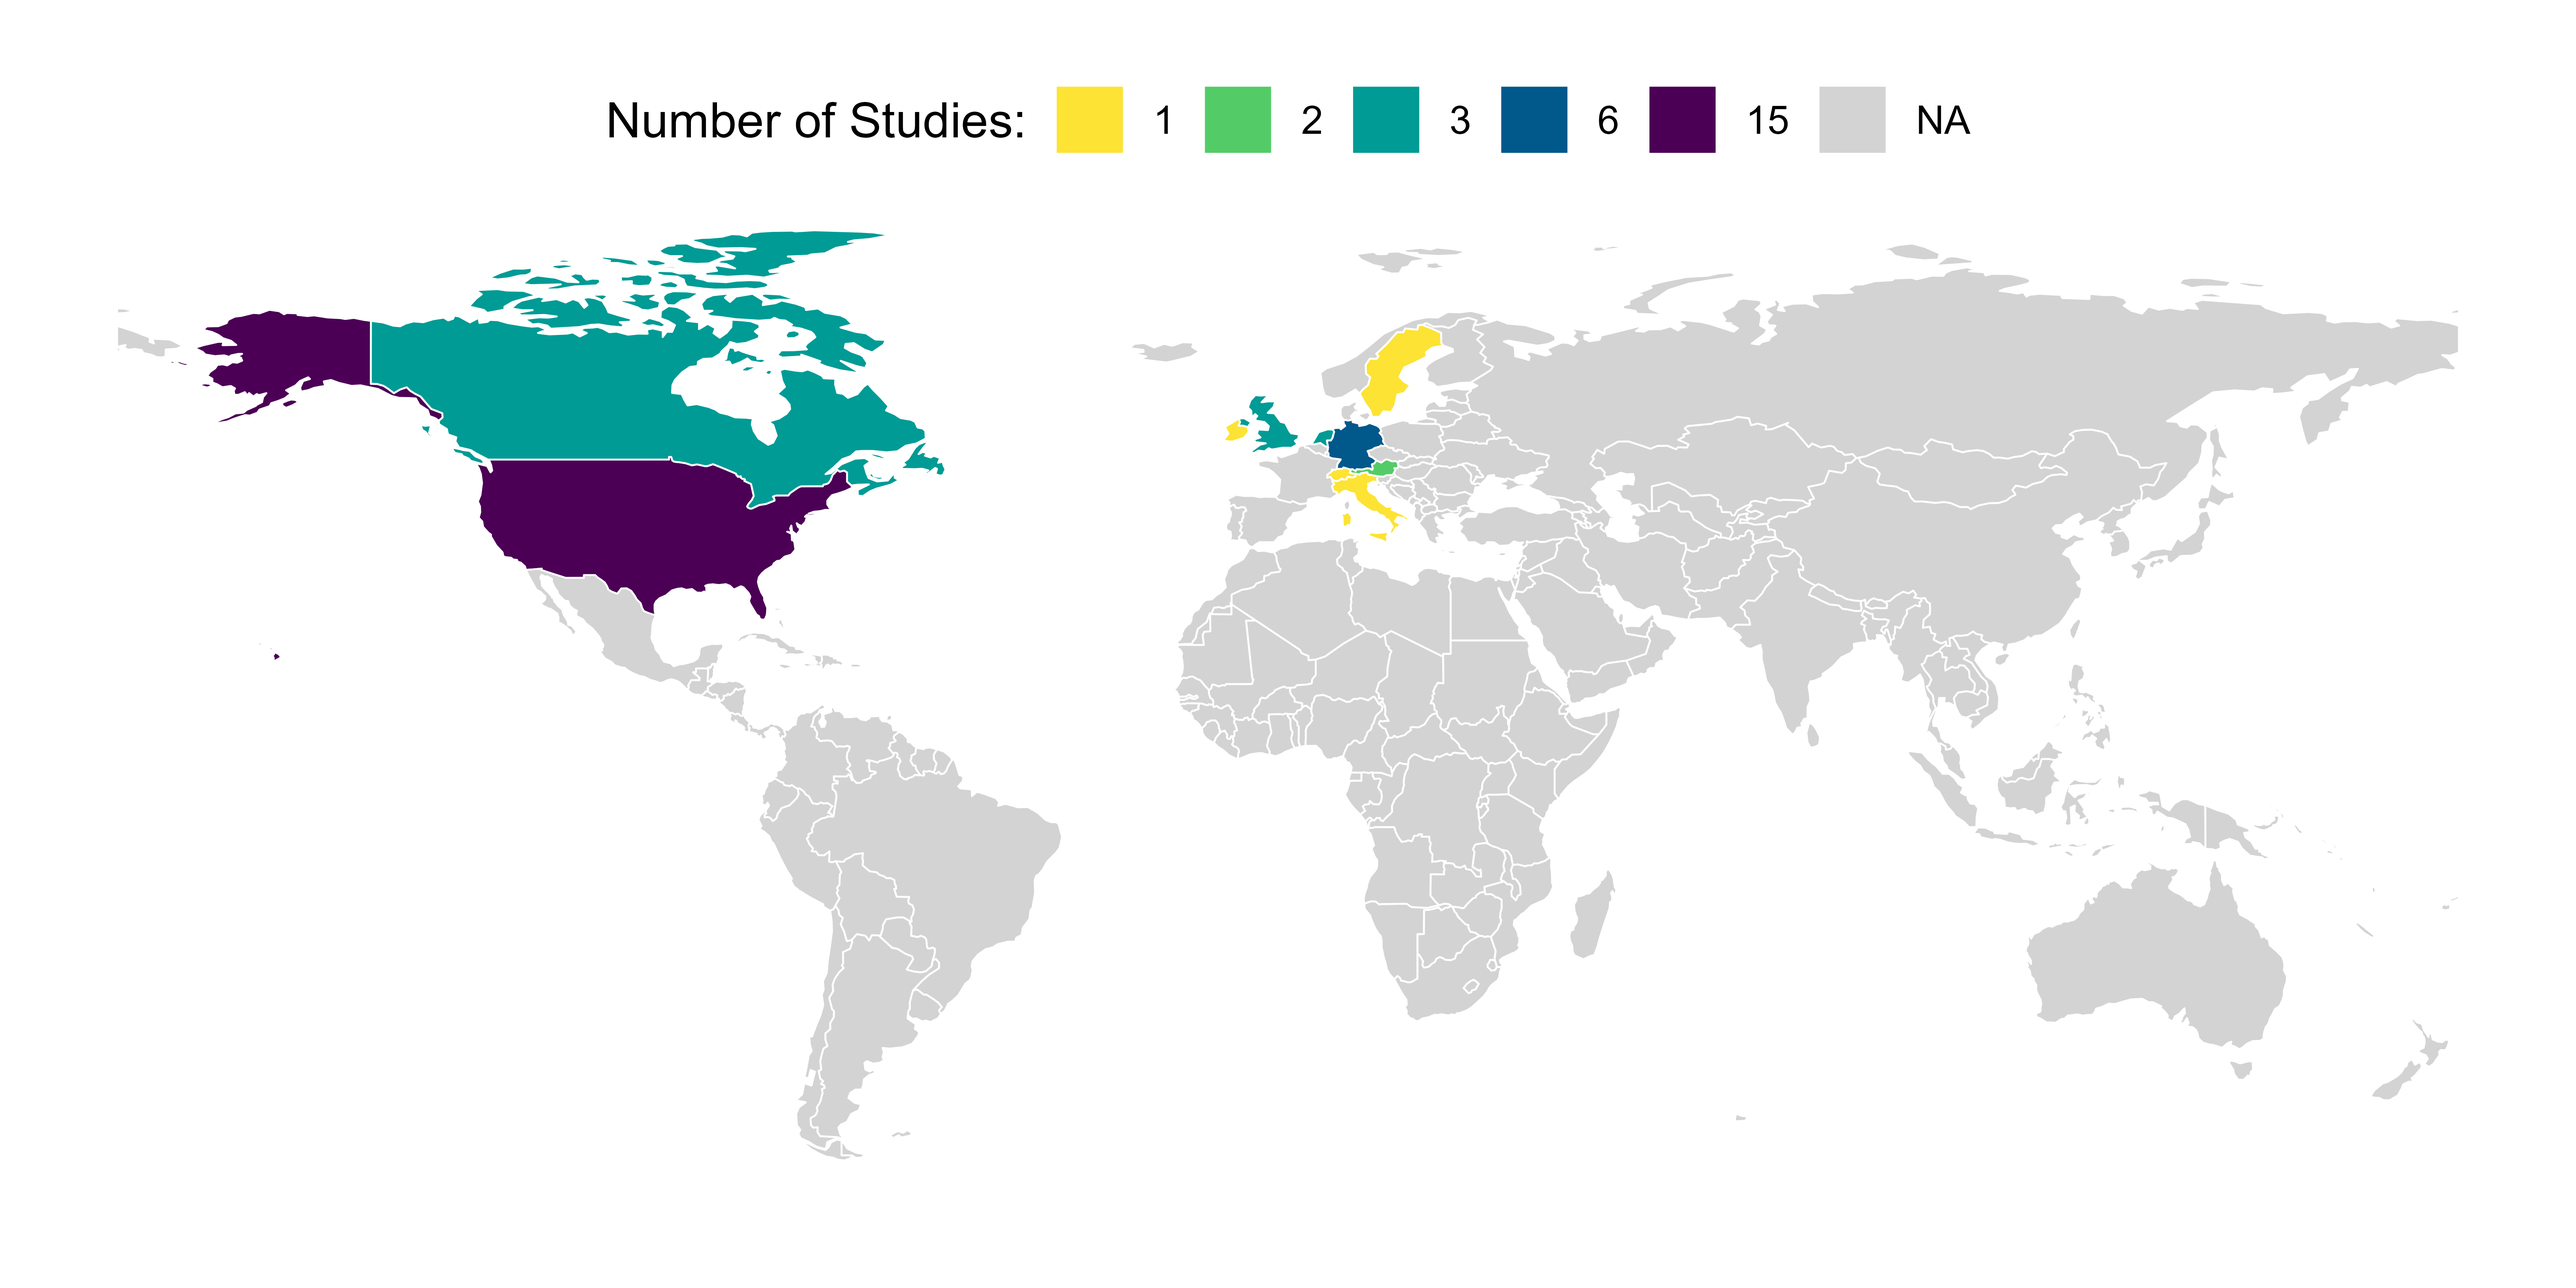
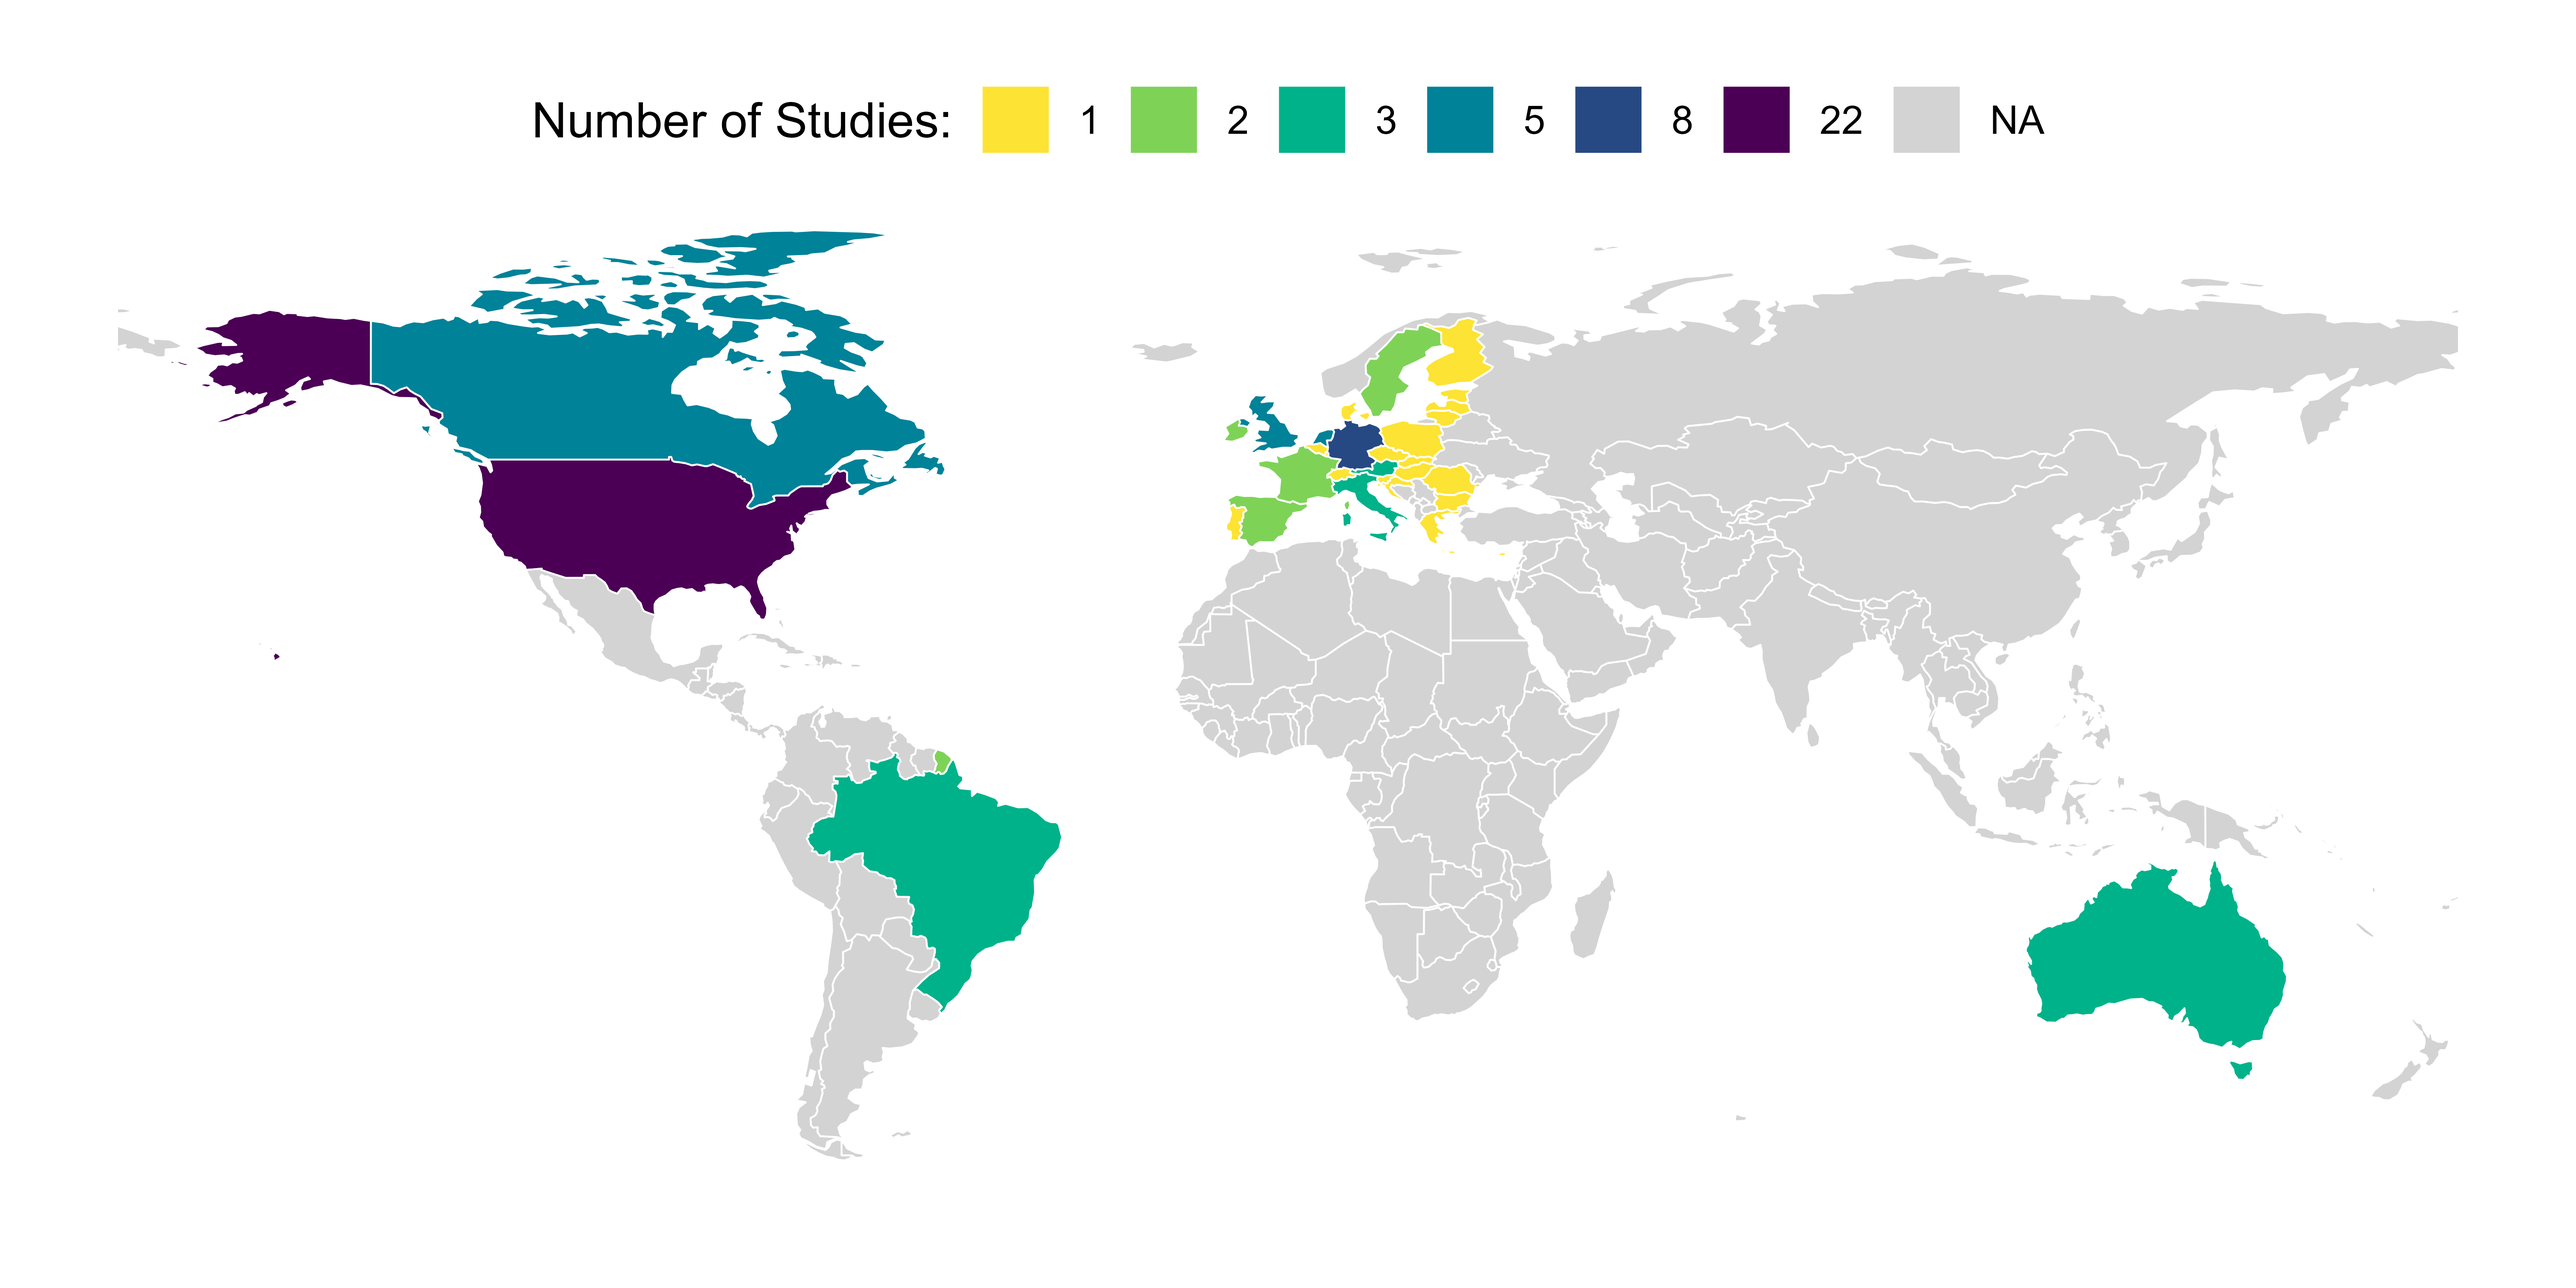
update

diff --git a/index.html b/index.html
@@ -57,9 +57,6 @@ class: white, middle, center
 ![](img/diss.png)
 
 
-
-
-
 ---
 
 
@@ -68,7 +65,7 @@ class: white, middle, center
 ## **Two** Gaps in the Literature
 
 
-#### 1. Inadequate or hard-to-access data (on actual targeting strategies)
+#### 1. Inadequate or no data (on actual targeting strategies)
 
 Where do we get the data from?
 
@@ -76,7 +73,7 @@ Where do we get the data from?
 
 #### 2. Focus on the Global North
 
-Which countries do we study? *Can* we study?
+Which countries do we study? 
 
 ---
 
@@ -165,6 +162,8 @@ class: white
 
 ---
 
+class: white
+
 
 ### Browser extensions
 
@@ -189,6 +188,8 @@ class: white
 
 
 ---
+
+class: white
 
 ### Browser extensions
 
@@ -284,7 +285,9 @@ class: white
 class: middle, center
 
 
-#### &amp;rarr; current data **I N A D E Q U A T E** for studying the phenomena (or hard to access)
+#### current data 
+#### **I N A D E Q U A T E** 
+#### for studying the phenomena (or hard to access)
 
 ---
 
@@ -292,13 +295,13 @@ class: middle, center
 
 ### 2. Focus on the Global North
 
-#### Which countries do we study? *Can* we study?
+#### Which countries do we study? 
 
 ---
 
 class: white
 
-### Research on political microtargeting - a WEIRD problem?
+### Political microtargeting - a WEIRD issue? .font50[(Aagaard &amp; Marthedal 2023 + own research)]
 
 
 ![](img/worldmapss.png)
@@ -312,23 +315,6 @@ class: white, middle, center
 ---
 
 ### Data on Ad Targeting
-
-
-+ September 2022: Meta adds "Audience" tab to public Meta Ad Library  
-
-    + Coverage: All countries in which political ads run
-    
-    + Targeting criteria: Age, Gender, Location, Language, "Interests" and "Behaviour", Custom and Lookalike Audiences 
-    
-    + Downside: only available for last 7, 30, and 90 days windows
-    
-    + No possibility to download data (however: I've written an R package `metargetr` to retrieve the data)
-        
-![](img/targeting2.png)
-
----
-
-### Studying **usage** of *online political microtargeting* 
 
 **Meta Ad Targeting Dataset**
 
@@ -358,7 +344,7 @@ class: white, middle, center
 
 class: middle, center
 
-### For the first time we can investigate the usage of online political microtargeting at scale and worldwide using a very comprehensive (but probably not 100% complete) data source
+### For the first time we can investigate the usage of online political microtargeting at scale and worldwide
 
 ---
 
@@ -368,6 +354,7 @@ class: middle, center
 ## Aims of this Research
 
 **Descriptive analysis of political microtargeting**
+
 
 **Laying the foundation for future microtargeting research**
 
@@ -416,6 +403,10 @@ class: white
 + We identified: 
   + *132 countries* 
   + *156 elections*
+  
+
++ Only focus on **political parties and candidates**
+
 ]
 
 &lt;!-- **122 *national* elections** in **101 countries** between --&gt;
@@ -429,15 +420,17 @@ class: white
 
 class: white
 
-## Method
+## Methods
 
 .leftcol[
 
-+ data annotated &amp; enhanced using the *Party Facts database* (Döring &amp; Regel 2019)
++ data annotated &amp; enhanced using the *Party Facts database* *(Döring &amp; Regel 2019)*
 
   + mainly based on Wikipedia
   
-  + we hand-coded over 9k advertisers and 900 parties (100 top advertisers + 50 random sample)
+  + we hand-coded over 9k advertisers and 900+ parties
+  
+  + 100 top advertisers + 50 random sample per election
   
 + Multi-source matching 
 
@@ -477,7 +470,6 @@ class: white
   + 10 countries had no data (e.g. Russia, Iran)
   + 27 countries no political advertisers (e.g. Venezuela, Niger)
 
-+ Only focus on **political parties and candidates**
 ]
 
 &lt;!-- **122 *national* elections** in **101 countries** between --&gt;
@@ -513,6 +505,38 @@ class: white
 &lt;img src="img/fourcats.png" width="85%"&gt;
 
 &lt;/center&gt;
+
+
+---
+
+
+
+
+class: white
+
+## Targeting and Exclusion Combinations
+
+
+.leftcol[
+
+We count targeting and exclusion combinations each time an additional criterion **reduces the audience size**
+
+0 criterias = all ages, all genders, entire country
+
+1 criterion = one interest audience
+
+2 criterias = one interest audiences in specific cities
+
+3 or more = 18-25 year olds, one interested audience in specific cities
+
+]
+
+.rightcol[
+
+&lt;img src="img/fourcats.png" width="100%"&gt;
+
+]
+
 
 
 ---
@@ -555,6 +579,20 @@ class: white
 
 ---
 
+class: white
+
+#### RQ1: Global Prevalence and Usage
+
+&gt; *Targeting common across geographical regions*
+
+&lt;center&gt;
+
+&lt;img src="img/regionpay.png" width="80%"&gt;
+
+&lt;/center&gt;
+
+---
+
 
 class: white
 
@@ -588,21 +626,6 @@ class: white
 
 
 ---
-
-class: white
-
-#### RQ1: Global Prevalence and Usage
-
-&gt; *Targeting common across geographical regions*
-
-&lt;center&gt;
-
-&lt;img src="img/regionpay.png" width="80%"&gt;
-
-&lt;/center&gt;
-
----
-
 
 class: white
 
@@ -665,7 +688,7 @@ class: white
 
 #### Political factors
   
-  &gt; Targeting strategies are common regardless of level of democracy
+&gt; Targeting strategies are common regardless of level of democracy
 
 
 ![](img/democ1.png)
@@ -712,7 +735,7 @@ class: white
 
 &gt; Countries with stricter data protection laws exhibit more spending on microtargeting
   
-![](img/limits.png)
+![](img/protecc.png)
 
 ---
 
@@ -926,24 +949,23 @@ class: white
     
   + Most commonly using location and socio-demographics (e.g. age)
 
++ political microtargeting is used **by both left and right**
+
 --
 
 **So is political microtargeting overhyped?**
 
 --
 
-+ Its usage in less-democratic countries or less stable societies should make us pause 
++ Its usage in less-democratic countries should make us pause 
 
++ they **target** their respective **core audiences**
 
-+ political microtargeting is used **by both left and right**
-
-  + they **target** their respective **core audiences**
-  
-      + i.e. concerns about a **defragmented public sphere*** not unfounded
+  + i.e. concerns about a **defragmented public sphere*** not unfounded
       
-  + they often target people already **interested in politics**
-  
-      + i.e. concerns about **"political redlining"**    not unfounded
++ they often target people already **interested in politics**
+
+  + i.e. concerns about **"political redlining"** not unfounded
       
 ---
 
@@ -951,10 +973,14 @@ class: white
 
 + The **Ad Targeting Dataset** released by Meta is a **step in the right direction** for ad transparency
 
-  + **however**, increases **dependency on Meta, should be seen critical**, especially given  announcement of recent Twitter API changes
+  + **however**, increases **dependency on Meta, should be seen critical**
 
   + dataset is **not easily accessible** for researchers, and not at all by civil society
   
+
++ Stepping stone for **future research**
+  
+  + Content!
 
 ---
 
@@ -967,7 +993,7 @@ class: middle, center
 
 &lt;div style="text-align: center;"&gt;
     &lt;div style="display: inline-block; text-align: left;"&gt;
-&lt;p align="left"&gt;&lt;svg viewBox="0 0 512 512" style="height:1em;position:relative;display:inline-block;top:.1em;fill:lightgrey;" xmlns="http://www.w3.org/2000/svg"&gt;  &lt;path d="M326.612 185.391c59.747 59.809 58.927 155.698.36 214.59-.11.12-.24.25-.36.37l-67.2 67.2c-59.27 59.27-155.699 59.262-214.96 0-59.27-59.26-59.27-155.7 0-214.96l37.106-37.106c9.84-9.84 26.786-3.3 27.294 10.606.648 17.722 3.826 35.527 9.69 52.721 1.986 5.822.567 12.262-3.783 16.612l-13.087 13.087c-28.026 28.026-28.905 73.66-1.155 101.96 28.024 28.579 74.086 28.749 102.325.51l67.2-67.19c28.191-28.191 28.073-73.757 0-101.83-3.701-3.694-7.429-6.564-10.341-8.569a16.037 16.037 0 0 1-6.947-12.606c-.396-10.567 3.348-21.456 11.698-29.806l21.054-21.055c5.521-5.521 14.182-6.199 20.584-1.731a152.482 152.482 0 0 1 20.522 17.197zM467.547 44.449c-59.261-59.262-155.69-59.27-214.96 0l-67.2 67.2c-.12.12-.25.25-.36.37-58.566 58.892-59.387 154.781.36 214.59a152.454 152.454 0 0 0 20.521 17.196c6.402 4.468 15.064 3.789 20.584-1.731l21.054-21.055c8.35-8.35 12.094-19.239 11.698-29.806a16.037 16.037 0 0 0-6.947-12.606c-2.912-2.005-6.64-4.875-10.341-8.569-28.073-28.073-28.191-73.639 0-101.83l67.2-67.19c28.239-28.239 74.3-28.069 102.325.51 27.75 28.3 26.872 73.934-1.155 101.96l-13.087 13.087c-4.35 4.35-5.769 10.79-3.783 16.612 5.864 17.194 9.042 34.999 9.69 52.721.509 13.906 17.454 20.446 27.294 10.606l37.106-37.106c59.271-59.259 59.271-155.699.001-214.959z"&gt;&lt;/path&gt;&lt;/svg&gt;&amp;nbsp;favstats.github.io/targex (Slides) &lt;br&gt; &lt;svg viewBox="0 0 512 512" style="height:1em;position:relative;display:inline-block;top:.1em;fill:blue;" xmlns="http://www.w3.org/2000/svg"&gt;  &lt;path d="M459.37 151.716c.325 4.548.325 9.097.325 13.645 0 138.72-105.583 298.558-298.558 298.558-59.452 0-114.68-17.219-161.137-47.106 8.447.974 16.568 1.299 25.34 1.299 49.055 0 94.213-16.568 130.274-44.832-46.132-.975-84.792-31.188-98.112-72.772 6.498.974 12.995 1.624 19.818 1.624 9.421 0 18.843-1.3 27.614-3.573-48.081-9.747-84.143-51.98-84.143-102.985v-1.299c13.969 7.797 30.214 12.67 47.431 13.319-28.264-18.843-46.781-51.005-46.781-87.391 0-19.492 5.197-37.36 14.294-52.954 51.655 63.675 129.3 105.258 216.365 109.807-1.624-7.797-2.599-15.918-2.599-24.04 0-57.828 46.782-104.934 104.934-104.934 30.213 0 57.502 12.67 76.67 33.137 23.715-4.548 46.456-13.32 66.599-25.34-7.798 24.366-24.366 44.833-46.132 57.827 21.117-2.273 41.584-8.122 60.426-16.243-14.292 20.791-32.161 39.308-52.628 54.253z"&gt;&lt;/path&gt;&lt;/svg&gt;&amp;nbsp;@favstats &lt;br&gt; &lt;svg viewBox="0 0 448 512" style="height:1em;position:relative;display:inline-block;top:.1em;fill:#615ff7;" xmlns="http://www.w3.org/2000/svg"&gt;  &lt;path d="M433 179.11c0-97.2-63.71-125.7-63.71-125.7-62.52-28.7-228.56-28.4-290.48 0 0 0-63.72 28.5-63.72 125.7 0 115.7-6.6 259.4 105.63 289.1 40.51 10.7 75.32 13 103.33 11.4 50.81-2.8 79.32-18.1 79.32-18.1l-1.7-36.9s-36.31 11.4-77.12 10.1c-40.41-1.4-83-4.4-89.63-54a102.54 102.54 0 0 1-.9-13.9c85.63 20.9 158.65 9.1 178.75 6.7 56.12-6.7 105-41.3 111.23-72.9 9.8-49.8 9-121.5 9-121.5zm-75.12 125.2h-46.63v-114.2c0-49.7-64-51.6-64 6.9v62.5h-46.33V197c0-58.5-64-56.6-64-6.9v114.2H90.19c0-122.1-5.2-147.9 18.41-175 25.9-28.9 79.82-30.8 103.83 6.1l11.6 19.5 11.6-19.5c24.11-37.1 78.12-34.8 103.83-6.1 23.71 27.3 18.4 53 18.4 175z"&gt;&lt;/path&gt;&lt;/svg&gt;&amp;nbsp;@favstats@fosstodon.org&lt;/p&gt;
+&lt;p align="left"&gt;&lt;svg viewBox="0 0 512 512" style="height:1em;position:relative;display:inline-block;top:.1em;fill:lightgrey;" xmlns="http://www.w3.org/2000/svg"&gt;  &lt;path d="M326.612 185.391c59.747 59.809 58.927 155.698.36 214.59-.11.12-.24.25-.36.37l-67.2 67.2c-59.27 59.27-155.699 59.262-214.96 0-59.27-59.26-59.27-155.7 0-214.96l37.106-37.106c9.84-9.84 26.786-3.3 27.294 10.606.648 17.722 3.826 35.527 9.69 52.721 1.986 5.822.567 12.262-3.783 16.612l-13.087 13.087c-28.026 28.026-28.905 73.66-1.155 101.96 28.024 28.579 74.086 28.749 102.325.51l67.2-67.19c28.191-28.191 28.073-73.757 0-101.83-3.701-3.694-7.429-6.564-10.341-8.569a16.037 16.037 0 0 1-6.947-12.606c-.396-10.567 3.348-21.456 11.698-29.806l21.054-21.055c5.521-5.521 14.182-6.199 20.584-1.731a152.482 152.482 0 0 1 20.522 17.197zM467.547 44.449c-59.261-59.262-155.69-59.27-214.96 0l-67.2 67.2c-.12.12-.25.25-.36.37-58.566 58.892-59.387 154.781.36 214.59a152.454 152.454 0 0 0 20.521 17.196c6.402 4.468 15.064 3.789 20.584-1.731l21.054-21.055c8.35-8.35 12.094-19.239 11.698-29.806a16.037 16.037 0 0 0-6.947-12.606c-2.912-2.005-6.64-4.875-10.341-8.569-28.073-28.073-28.191-73.639 0-101.83l67.2-67.19c28.239-28.239 74.3-28.069 102.325.51 27.75 28.3 26.872 73.934-1.155 101.96l-13.087 13.087c-4.35 4.35-5.769 10.79-3.783 16.612 5.864 17.194 9.042 34.999 9.69 52.721.509 13.906 17.454 20.446 27.294 10.606l37.106-37.106c59.271-59.259 59.271-155.699.001-214.959z"&gt;&lt;/path&gt;&lt;/svg&gt;&amp;nbsp;favstats.github.io/ddc2023 (Slides) &lt;br&gt; &lt;svg viewBox="0 0 512 512" style="height:1em;position:relative;display:inline-block;top:.1em;fill:blue;" xmlns="http://www.w3.org/2000/svg"&gt;  &lt;path d="M459.37 151.716c.325 4.548.325 9.097.325 13.645 0 138.72-105.583 298.558-298.558 298.558-59.452 0-114.68-17.219-161.137-47.106 8.447.974 16.568 1.299 25.34 1.299 49.055 0 94.213-16.568 130.274-44.832-46.132-.975-84.792-31.188-98.112-72.772 6.498.974 12.995 1.624 19.818 1.624 9.421 0 18.843-1.3 27.614-3.573-48.081-9.747-84.143-51.98-84.143-102.985v-1.299c13.969 7.797 30.214 12.67 47.431 13.319-28.264-18.843-46.781-51.005-46.781-87.391 0-19.492 5.197-37.36 14.294-52.954 51.655 63.675 129.3 105.258 216.365 109.807-1.624-7.797-2.599-15.918-2.599-24.04 0-57.828 46.782-104.934 104.934-104.934 30.213 0 57.502 12.67 76.67 33.137 23.715-4.548 46.456-13.32 66.599-25.34-7.798 24.366-24.366 44.833-46.132 57.827 21.117-2.273 41.584-8.122 60.426-16.243-14.292 20.791-32.161 39.308-52.628 54.253z"&gt;&lt;/path&gt;&lt;/svg&gt;&amp;nbsp;favstats &lt;br&gt; &lt;svg viewBox="0 0 448 512" style="height:1em;position:relative;display:inline-block;top:.1em;fill:#615ff7;" xmlns="http://www.w3.org/2000/svg"&gt;  &lt;path d="M433 179.11c0-97.2-63.71-125.7-63.71-125.7-62.52-28.7-228.56-28.4-290.48 0 0 0-63.72 28.5-63.72 125.7 0 115.7-6.6 259.4 105.63 289.1 40.51 10.7 75.32 13 103.33 11.4 50.81-2.8 79.32-18.1 79.32-18.1l-1.7-36.9s-36.31 11.4-77.12 10.1c-40.41-1.4-83-4.4-89.63-54a102.54 102.54 0 0 1-.9-13.9c85.63 20.9 158.65 9.1 178.75 6.7 56.12-6.7 105-41.3 111.23-72.9 9.8-49.8 9-121.5 9-121.5zm-75.12 125.2h-46.63v-114.2c0-49.7-64-51.6-64 6.9v62.5h-46.33V197c0-58.5-64-56.6-64-6.9v114.2H90.19c0-122.1-5.2-147.9 18.41-175 25.9-28.9 79.82-30.8 103.83 6.1l11.6 19.5 11.6-19.5c24.11-37.1 78.12-34.8 103.83-6.1 23.71 27.3 18.4 53 18.4 175z"&gt;&lt;/path&gt;&lt;/svg&gt;&amp;nbsp;favstats@fosstodon.org &lt;br&gt; &lt;svg viewBox="0 0 448 512" style="height:1em;position:relative;display:inline-block;top:.1em;fill:#0085ff;" xmlns="http://www.w3.org/2000/svg"&gt;  &lt;path d="M400 32H48C21.5 32 0 53.5 0 80v352c0 26.5 21.5 48 48 48h352c26.5 0 48-21.5 48-48V80c0-26.5-21.5-48-48-48z"&gt;&lt;/path&gt;&lt;/svg&gt;&amp;nbsp;favstats.bsky.social&lt;/p&gt;
     &lt;/div&gt;
 &lt;/div&gt;
 
@@ -1037,6 +1063,23 @@ class: white
 #### RQ2: Who are political parties including and excluding on Meta? (party-level)
 
 ![](img/spend_per_age.png)
+
+---
+
+### Data on Ad Targeting I
+
+
++ September 2022: Meta adds "Audience" tab to public Meta Ad Library  
+
+    + Coverage: All countries in which political ads run
+    
+    + Targeting criteria: Age, Gender, Location, Language, "Interests" and "Behaviour", Custom and Lookalike Audiences 
+    
+    + Downside: only available for last 7, 30, and 90 days windows
+    
+    + No possibility to download data (however: I've written an R package `metargetr` to retrieve the data)
+        
+![](img/targeting2.png)
 
 ---
 
